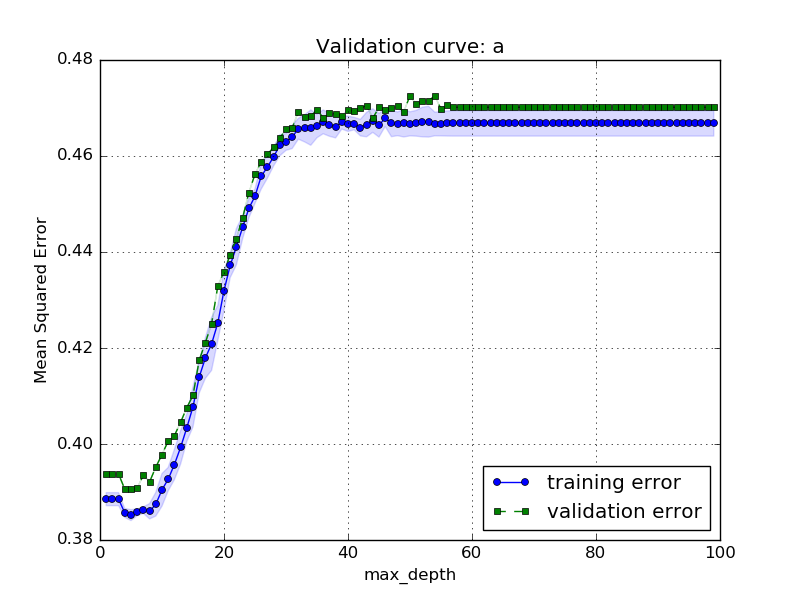
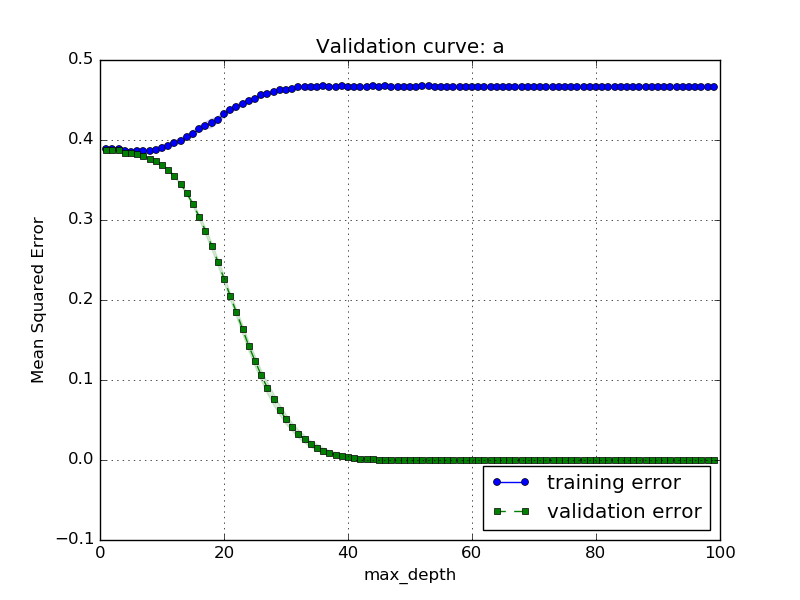
running

diff --git a/Assignment1/validation_curves.py b/Assignment1/validation_curves.py
@@ -126,10 +126,10 @@ for param_name in params_dict.keys():
             print('Fold:', k+1, ', Training MSE:', train_MSE, ', Nodes: ', num_nodes_inner)
         
             y_predicted_test = clf.predict(X_train[train])
-            test_MSE = mean_squared_error(y_train[test], y_predicted_test)
+            test_MSE = mean_squared_error(y_train[train], y_predicted_test)
             #test_MSE2 = 1. - clf.score(X_test, y_test)
             test_scores.append(test_MSE)
-            print('Test MSE:', test_MSE2)
+            print('Test MSE:', test_MSE)
             
         
         train_score = np.mean(train_scores)
